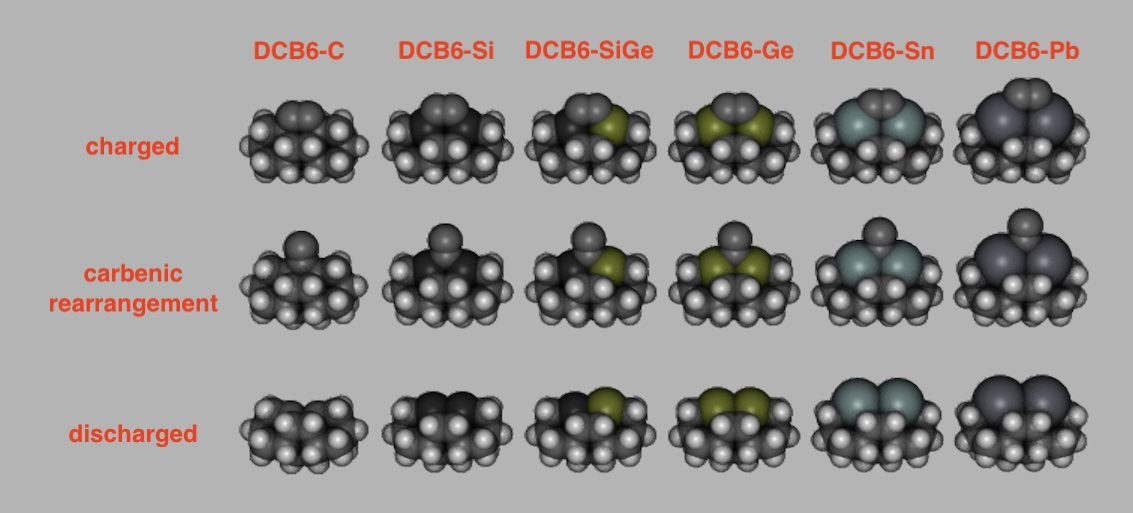
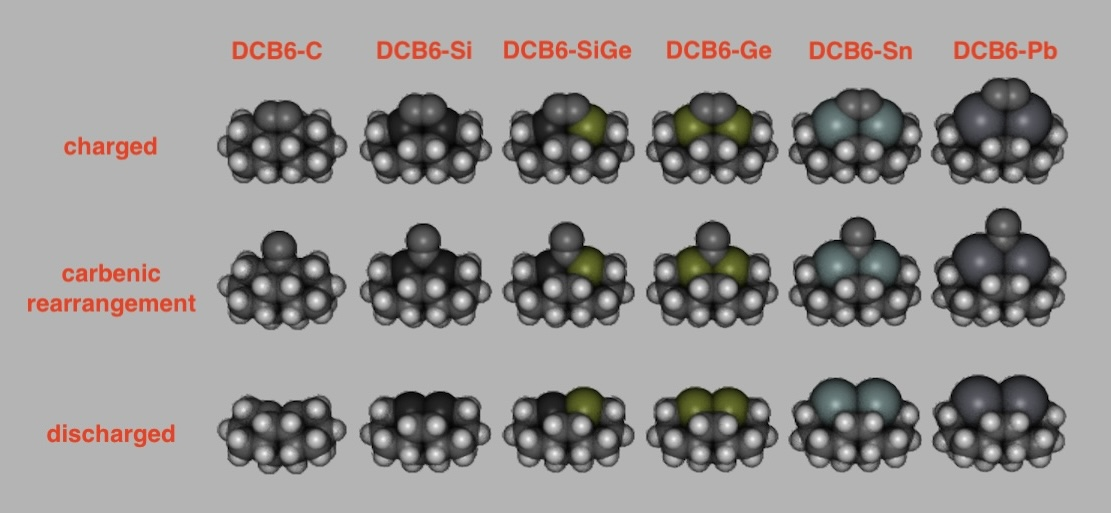
[DMSTooltips] Fix some formatting issues with the images

diff --git a/Sources/HardwareCatalog/Simulation/DMSTooltips/README.md b/Sources/HardwareCatalog/Simulation/DMSTooltips/README.md
@@ -462,6 +462,14 @@ GFN2-xTB is also taking longer to execute. It produces slightly different number
 
 The raw data from the experiment is located at https://gist.github.com/philipturner/b6d13864b0129f09c2e4144364117a8e.
 
+<div align="center">
+
 ![DMS Tooltips Production Simulation](./DMSTooltips_ProductionSimulation.jpg)
 
+</div>
+
+<div align="center">
+
 ![DMS Tooltips DCB6-Pb Simulation Failure](./DMSTooltips_DCB6Pb_SimulationFailure.jpg)
+
+</div>
